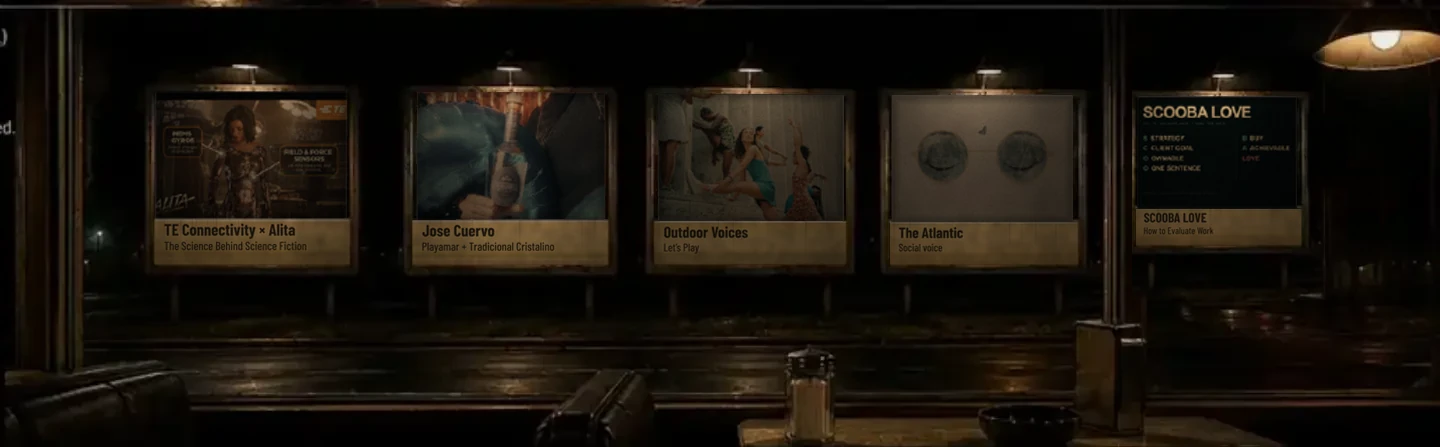
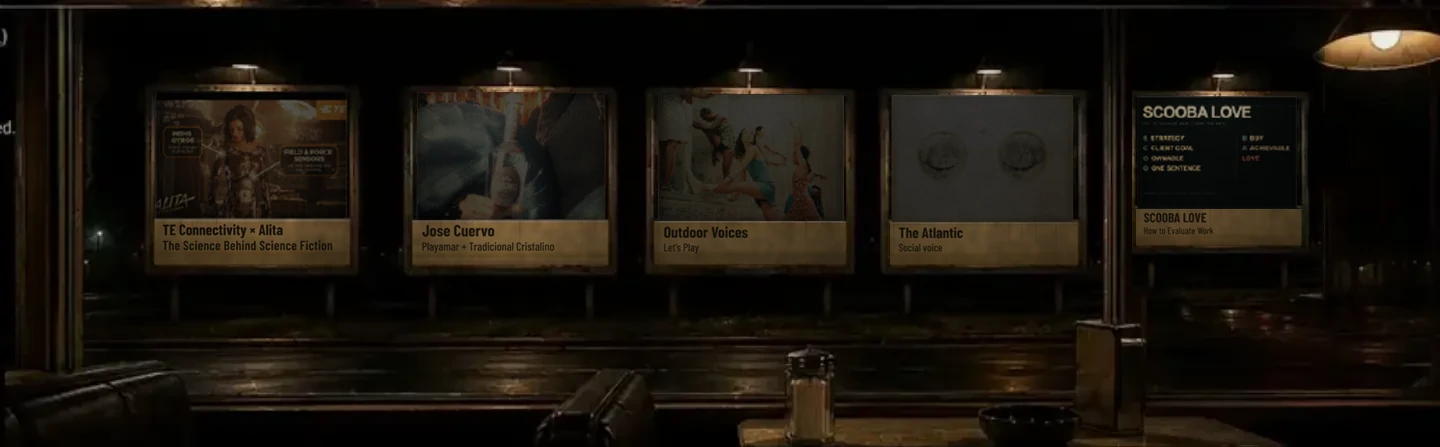
billboards round 3: grade MoneyLion into the night, rebalance Alita strip, atlantic-first swap option
- Printed-ink grade on every face: cyan/blue desaturation, soft-knee highlights under the lamp's
  white level, stronger pull to the plate median. MoneyLion now matches Porsche/Selsun luminance.
- Alita strip: same words; case line larger, 600 weight, opened tracking, denser ink.
- --order atlantic-first: The Atlantic in Work cabinet 04, Selsun Blue in More Work cabinet 09,
  written to *-swap plates with review/billboards/*-swap.html (links follow each case).
  Default build unchanged.

diff --git a/review/billboards/work-swap.html b/review/billboards/work-swap.html
@@ -1,0 +1,7 @@
+<!DOCTYPE html>
+<html lang="en">
+<head>
+<meta charset="utf-8"><meta name="viewport" content="width=device-width,initial-scale=1">
+<title>Ian Luna — WORK</title><meta name="description" content="Selected work by Ian Luna.">
+<link href="/favicon.png" rel="icon"><link href="/work-system.css?v=20260909-lock1" rel="stylesheet"><link href="/tour-runtime.css?v=20260908-physical2" rel="stylesheet"><link href="/tour-cinematic-v2.css?v=20260909-1" rel="stylesheet"><link href="/work-enhance.css?v=20260909-lock1" rel="stylesheet"><script src="/tour-runtime.js?v=20260908-physical2"></script><link as="image" fetchpriority="high" href="/assets/work-panorama-physical-v3-swap.webp" rel="preload"><link href="https://www.ianrluna.com/work/" rel="canonical"><meta content="#080706" name="theme-color"><meta content="website" property="og:type"><meta content="Ian Luna — Work" property="og:title"><meta content="Selected work by creative director and copywriter Ian Luna." property="og:description"><meta content="https://www.ianrluna.com/og_work.png" property="og:image"><meta content="summary_large_image" name="twitter:card"><style>/* review: baked physical billboard plate (scripts/build-all-billboards.py) */.work-scene{background-image:url('/assets/work-panorama-physical-v3-swap.webp?v=20260926-swap1')}/* review fix: live .next-bay is positioned inside the over-wide stage and runs past the viewport; offset it by the stage overflow so it keeps the film-bar's 28px right inset (the stage's transform makes position:fixed useless here) */@media(min-width:761px){.next-bay{right:max(0px,calc((min(106vw,(100svh - var(--bar-h)*2)*1.777777778*1.06) - 100vw)/2 + 28px))}}</style><meta name="robots" content="noindex"></head>
+<body data-tour-surface="work"><a class="skip" href="#projects">Skip to projects</a><div class="filmbar top"><span><span class="hi">IAN LUNA</span> · CREATIVE DIRECTOR</span><span>INT. · DINER · NIGHT</span></div><main id="projects" tabindex="-1"><h1 class="sr-only">WORK — Selected cases</h1><div class="scene-stage work-scene"><div class="scene-wash"></div><a aria-label="Nike SB × Staple: Panda Pigeon" class="billboard b1" data-case-id="nike-sb-panda-pigeon" href="/work/nike-sb-panda-pigeon/"></a><a aria-label="Virgin Galactic: Unity 22" class="billboard b2" data-case-id="virgin-galactic-unity-22" href="/work/virgin-galactic-unity-22/"></a><a aria-label="Porsche × Lucasfilm: The Designer Alliance" class="billboard b3" data-case-id="porsche-lucasfilm-designer-alliance" href="/work/porsche-lucasfilm-designer-alliance/"></a><a aria-label="The Atlantic: Social voice" class="billboard b4" data-case-id="the-atlantic" href="/work/the-atlantic/"></a><a aria-label="MoneyLion × Beast Games: Beast Games Giveaway" class="billboard b5" data-case-id="moneylion-beast-games" href="/work/moneylion-beast-games/"></a><a class="next-bay" href="/work/more/" aria-label="Continue to More Work">NEXT BAY · MORE WORK →</a></div><div aria-hidden="true" class="mobile-title">WORK · Selected cases</div><div class="mobile-list"><a class="mobile-card" data-case-id="nike-sb-panda-pigeon" href="/work/nike-sb-panda-pigeon/"><img alt="" decoding="async" height="985" loading="lazy" src="/assets/cases/nike-hero.webp" width="925"><span class="meta"><b>Nike SB × Staple</b><span>Panda Pigeon</span></span></a><a class="mobile-card" data-case-id="virgin-galactic-unity-22" href="/work/virgin-galactic-unity-22/"><img alt="" decoding="async" height="844" loading="lazy" src="/assets/cases/virgin-hero.webp" width="1600"><span class="meta"><b>Virgin Galactic</b><span>Unity 22</span></span></a><a class="mobile-card" data-case-id="porsche-lucasfilm-designer-alliance" href="/work/porsche-lucasfilm-designer-alliance/"><img alt="" decoding="async" height="900" loading="lazy" src="/assets/cases/porsche-hero.webp" width="1600"><span class="meta"><b>Porsche × Lucasfilm</b><span>The Designer Alliance</span></span></a><a class="mobile-card" data-case-id="the-atlantic" href="/work/the-atlantic/"><img alt="" decoding="async" height="500" loading="lazy" src="/assets/cases/atlantic-hero-poster.webp" width="500"><span class="meta"><b>The Atlantic</b><span>Social voice</span></span></a><a class="mobile-card" data-case-id="moneylion-beast-games" href="/work/moneylion-beast-games/"><img alt="" decoding="async" height="1024" loading="lazy" src="/assets/cases/moneylion-hero.webp" width="1024"><span class="meta"><b>MoneyLion × Beast Games</b><span>Beast Games Giveaway</span></span></a></div></main><div class="filmbar bottom"><nav aria-label="Primary" class="rail"><a href="/">HOME</a><a aria-current="page" href="/work/">WORK</a><a href="/work/more/">MORE WORK</a><a href="/work/all/">INDEX</a><a href="/about/">ABOUT</a><a href="/hearsay/">HEARSAY</a></nav><span>05 CASES</span></div></body></html>

diff --git a/review/billboards/more-work-swap.html b/review/billboards/more-work-swap.html
@@ -1,0 +1,2 @@
+<!DOCTYPE html>
+<html lang="en"><head><meta charset="utf-8"><meta name="viewport" content="width=device-width,initial-scale=1"><title>Ian Luna — MORE WORK</title><meta name="description" content="Selected work by Ian Luna."><link href="/favicon.png" rel="icon"><link href="/work-system.css?v=20260909-lock1" rel="stylesheet"><link href="/tour-runtime.css?v=20260908-physical2" rel="stylesheet"><link href="/tour-cinematic-v2.css?v=20260909-1" rel="stylesheet"><link href="/work-enhance.css?v=20260909-lock1" rel="stylesheet"><script src="/tour-runtime.js?v=20260908-physical2"></script><link as="image" fetchpriority="high" href="/assets/more-work-panorama-physical-v2-swap.webp" rel="preload"><link href="https://www.ianrluna.com/work/more/" rel="canonical"><meta content="#080706" name="theme-color"><meta content="website" property="og:type"><meta content="Ian Luna — More Work" property="og:title"><meta content="Selected work by creative director and copywriter Ian Luna." property="og:description"><meta content="https://www.ianrluna.com/og_work.png" property="og:image"><meta content="summary_large_image" name="twitter:card"><style>/* review: baked physical billboard plate (scripts/build-all-billboards.py) */.more-scene{background-image:url('/assets/more-work-panorama-physical-v2-swap.webp?v=20260926-swap1')}</style><meta name="robots" content="noindex"></head><body data-tour-surface="more"><a class="skip" href="#projects">Skip to projects</a><div class="filmbar top"><span><span class="hi">IAN LUNA</span> · CREATIVE DIRECTOR</span><span>INT. · DINER · NIGHT</span></div><main id="projects" tabindex="-1"><h1 class="sr-only">MORE WORK — Selected cases</h1><div class="scene-stage more-scene"><div class="scene-wash"></div><a aria-label="TE Connectivity × Alita: The Science Behind Science Fiction" class="billboard b1" data-case-id="alita-te-connectivity" href="/work/alita-te-connectivity/"></a><a aria-label="Jose Cuervo: Playamar + Tradicional Cristalino" class="billboard b2" data-case-id="jose-cuervo" href="/work/jose-cuervo/"></a><a aria-label="Outdoor Voices: Let’s Play" class="billboard b3" data-case-id="outdoor-voices" href="/work/outdoor-voices/"></a><a aria-label="Selsun Blue: Dan Driff" class="billboard b4" data-case-id="selsun-blue-dan-driff" href="/work/selsun-blue-dan-driff/"></a><a aria-label="SCOOBA LOVE: internal creative evaluation system" class="billboard b5" data-case-id="scooba-love" href="/work/scooba-love/"></a></div><div aria-hidden="true" class="mobile-title">MORE WORK · Selected cases</div><div class="mobile-list"><a class="mobile-card" data-case-id="alita-te-connectivity" href="/work/alita-te-connectivity/"><img alt="" decoding="async" height="780" loading="lazy" src="/assets/cases/alita-hero.webp" width="532"><span class="meta"><b>TE Connectivity × Alita</b><span>The Science Behind Science Fiction</span></span></a><a class="mobile-card" data-case-id="jose-cuervo" href="/work/jose-cuervo/"><img alt="" decoding="async" height="500" loading="lazy" src="/assets/cases/cuervo-hero-poster.webp" width="399"><span class="meta"><b>Jose Cuervo</b><span>Playamar + Tradicional Cristalino</span></span></a><a class="mobile-card" data-case-id="outdoor-voices" href="/work/outdoor-voices/"><img alt="" decoding="async" height="1069" loading="lazy" src="/assets/cases/outdoor-voices-hero.webp" width="1600"><span class="meta"><b>Outdoor Voices</b><span>Let’s Play</span></span></a><a class="mobile-card" data-case-id="selsun-blue-dan-driff" href="/work/selsun-blue-dan-driff/"><img alt="" decoding="async" height="360" loading="lazy" src="/assets/cases/selsun-hero.webp" width="640"><span class="meta"><b>Selsun Blue</b><span>Dan Driff</span></span></a><a class="mobile-card" data-case-id="scooba-love" href="/work/scooba-love/"><img alt="" decoding="async" loading="lazy" src="/assets/cases/scooba-hero.svg"><span class="meta"><b>SCOOBA LOVE</b><span>How to evaluate work</span></span></a></div></main><div class="filmbar bottom"><nav aria-label="Primary" class="rail"><a href="/">HOME</a><a href="/work/">WORK</a><a aria-current="page" href="/work/more/">MORE WORK</a><a href="/work/all/">INDEX</a><a href="/about/">ABOUT</a><a href="/hearsay/">HEARSAY</a></nav><span>05 CASES</span></div></body></html>

diff --git a/scripts/build-all-billboards.py b/scripts/build-all-billboards.py
@@ -65,6 +65,7 @@ BOARDS = {
             # Chosen face: virgin-work-01 (carrier + spaceship + contrails). The hero's rocket is a ~20px
             # speck at billboard scale; two silhouettes read as aircraft/spacecraft at 1024 and 1440.
             src="assets/cases/virgin-work-01.webp",
+            grade=dict(cyan=0.55),  # daylight-blue sky would otherwise read as a lit screen at night
             crop=(0.47, 0.25, 1.12),
             # Rejected candidate (compare with --virgin-alt): frame 10 of zc_pull virgin-galactic/02.gif,
             # the engine firing. It read as a dark wedge at board scale.
@@ -98,6 +99,8 @@ BOARDS = {
             face=Q(1416, 310.5, 1674.5, 460.5),
             strip=Q(1416.5, 468, 1673.5, 503.5),
             src="assets/cases/moneylion-hero.webp",
+            # Council round: read pasted (too bright, cyan too saturated). Grade into the night.
+            grade=dict(cyan=0.40, knee=0.50, exposure=0.84),
             crop=(0.55, 0.68, 1.0),
             seed=15,
         ),
@@ -106,6 +109,9 @@ BOARDS = {
         dict(
             id="alita",
             client="TE Connectivity × Alita",
+            # Longest identity on either plate: balance the two lines (client a touch smaller, case
+            # line larger, 600 weight, opened tracking, denser ink) so the case line reads like the others.
+            type=dict(cap1=0.225, cap2=0.195, gap=0.12, top=0.13, w2=600, track2=0.02, pad=0.042, ink=0.86),
             title="The Science Behind Science Fiction",
             face=Q(155.5, 91.5, 346.5, 218.5),
             strip=Q(154.5, 218.5, 349, 264.5),
@@ -164,6 +170,7 @@ PLATE = {
         grain=0.010,
         veil=0.55,
         glass=0.9,
+        pull=0.55,
         type=dict(top=0.12, cap1=0.33, gap=0.13, cap2=0.25, pad=0.045),
     ),
     "more": dict(
@@ -171,6 +178,7 @@ PLATE = {
         blur=0.40,
         grain=0.012,
         veil=0.0,
+        pull=0.55,
         glass=0.0,  # above these cabinets is lamp hardware, not open glass: no glass-texture transfer
         type=dict(top=0.12, cap1=0.245, gap=0.13, cap2=0.175, pad=0.05),
     ),
@@ -361,6 +369,15 @@ def build_face(base, b, plate, light, colprof, vis_frac):
     art = ImageEnhance.Color(art).enhance(0.86)
     art = ImageEnhance.Contrast(art).enhance(0.88)
     a = np.asarray(art, np.float32) / 255.0
+    # Printed inks under a warm sodium/tungsten lamp: cyan/blue grounds go dull and greyer, they do
+    # not glow. Hue-selective desaturation (all boards, stronger where a board sets grade.cyan).
+    g = b.get("grade", {})
+    hsv = np.asarray(Image.fromarray(np.uint8(a * 255 + 0.5)).convert("HSV"), np.float32)
+    hue = hsv[..., 0] * (360.0 / 255.0)
+    band = np.clip(1 - np.abs(hue - 195.0) / 50.0, 0, 1)  # cyan-blue centred at 195 deg
+    lum = a.mean(axis=2, keepdims=True)
+    keep = 1 - band[..., None] * (1 - g.get("cyan", 0.70))
+    a = lum + (a - lum) * keep
     a = np.power(a, 1.08)  # print on a lit face, not an emissive screen
 
     yy, xx = np.mgrid[0:h, 0:w]
@@ -372,12 +389,19 @@ def build_face(base, b, plate, light, colprof, vis_frac):
     bezel = 0.70 + 0.30 * np.clip(edge / max(4.0, 0.045 * min(w, h) * 1.6), 0, 1)
     illum = (vert + hot) * hx * bezel  # peak ~1.5 under the lamp, ~0.8 low corners
     out = a * illum[..., None] * light[None, None, :]
+    # Soft-knee highlight compression relative to the lamp's white level: paper can't out-shine
+    # the cream plate under the same lamp.
+    wl = float(light.mean())
+    knee = g.get("knee", 0.62) * wl
+    over = np.clip(out - knee, 0, None)
+    out = np.minimum(out, knee) + over / (1 + over / max(0.35 * wl, 1e-4))
     # Neighbour harmonisation: pull each face part-way toward the plate's shared mean exposure,
     # so a bright-ground campaign (cyan, white paper) does not read as a lit screen next to a dark one.
     _RAW_MEANS.append(float(out.mean()))
     if plate.get("mean_target"):
         m = float(out.mean())
         out *= (plate["mean_target"] / max(m, 1e-4)) ** plate.get("pull", 0.35)
+    out *= g.get("exposure", 1.0)
 
     tex, _ = glass_texture(base, b["face"], w, h)
     veil = sky_rgb(base, b["face"], h) * plate["veil"]
@@ -434,7 +458,7 @@ def build_strip(base, b, plate, light, occ, vis_frac):
         (w * S, h * S), Image.Resampling.BICUBIC
     )
     ink = Image.new("L", big.size, 0)
-    t = plate["type"]
+    t = dict(plate["type"], **{k: v for k, v in b.get("type", {}).items() if k in ("top", "cap1", "gap", "cap2", "pad", "ink")})
     usable = w * vis_frac - 2 * t["pad"] * w
     lines = [("l1", b["client"], t["cap1"]), ("l2", b["title"], t["cap2"])]
     caps = [t["cap1"] * h, t["cap2"] * h]
@@ -459,8 +483,8 @@ def build_strip(base, b, plate, light, occ, vis_frac):
     inkf = np.asarray(ink, np.float32) / 255.0
     bigf = np.asarray(big, np.float32) / 255.0
     printed = (
-        bigf * (1 - 0.80 * inkf[..., None])
-        + np.array([0.06, 0.05, 0.03]) * 0.80 * inkf[..., None] * 0.5
+        bigf * (1 - t.get("ink", 0.80) * inkf[..., None])
+        + np.array([0.06, 0.05, 0.03]) * t.get("ink", 0.80) * inkf[..., None] * 0.5
     )
     lab = Image.fromarray(np.uint8(np.clip(printed, 0, 1) * 255), "RGB").resize(
         (w, h), Image.Resampling.LANCZOS
@@ -628,7 +652,7 @@ def render_type():
     SRC_DIR.mkdir(parents=True, exist_ok=True)
     html = (
         "<html><head><link rel='stylesheet' href='https://fonts.googleapis.com/css2?"
-        "family=Barlow+Condensed:wght@500;700&display=block'></head>"
+        "family=Barlow+Condensed:wght@500;600;700&display=block'></head>"
         "<body style='margin:0;background:#000'><span id=t style='font-family:\"Barlow Condensed\";"
         "color:#fff;font-size:240px;line-height:1.5;white-space:pre;padding:0 40px;display:inline-block'>H</span>"
         "</body></html>"
@@ -638,16 +662,17 @@ def render_type():
         pg = br.new_page(viewport={"width": 6000, "height": 600}, device_scale_factor=1)
         pg.set_content(html)
         pg.wait_for_function("document.fonts.ready.then(()=>true)")
-        for wt in (500, 700):
+        for wt in (500, 600, 700):
             pg.evaluate(f"document.fonts.load('{wt} 240px \"Barlow Condensed\"')")
             ok = pg.evaluate(f"document.fonts.check('{wt} 240px \"Barlow Condensed\"')")
             if not ok:
                 raise SystemExit(f"Barlow Condensed {wt} did not load")
 
-        def shot(text, wt):
+        def shot(text, wt, track=0.0):
             pg.evaluate(
-                "([t,w])=>{const e=document.getElementById('t');e.textContent=t;e.style.fontWeight=w}",
-                [text, wt],
+                "([t,w,k])=>{const e=document.getElementById('t');e.textContent=t;e.style.fontWeight=w;"
+                "e.style.letterSpacing=k+'em'}",
+                [text, wt, track],
             )
             pg.wait_for_timeout(50)
             png = pg.locator("#t").screenshot()
@@ -660,14 +685,15 @@ def render_type():
             rows = np.where(m.any(axis=1))[0]
             return int(rows[0]), int(rows[-1] - rows[0] + 1)
 
-        caps = {wt: cap_metrics(wt) for wt in (500, 700)}
+        caps = {wt: cap_metrics(wt) for wt in (500, 600, 700)}
         for plate in BOARDS.values():
             for b in plate:
-                for kind, text, wt in (
-                    ("l1", b["client"], 700),
-                    ("l2", b["title"], 500),
+                to = b.get("type", {})
+                for kind, text, wt, track in (
+                    ("l1", b["client"], to.get("w1", 700), to.get("track1", 0.0)),
+                    ("l2", b["title"], to.get("w2", 500), to.get("track2", 0.0)),
                 ):
-                    img = shot(text, wt)
+                    img = shot(text, wt, track)
                     a = np.asarray(img)
                     cols = np.where((a > 20).any(axis=0))[0]
                     img = img.crop((max(0, cols[0] - 2), 0, cols[-1] + 3, img.height))
@@ -679,6 +705,7 @@ def render_type():
                                 "text": text,
                                 "font": "Barlow Condensed",
                                 "weight": wt,
+                                "letter_spacing_em": track,
                                 "cap": cap,
                                 "cap_top": cap_top,
                                 "license": "SIL OFL 1.1",
@@ -696,6 +723,23 @@ def render_type():
     print(f"type masks + scooba raster written to {TYPE_DIR} / {SRC_DIR}")
 
 
+# Content travels between cabinets; geometry (face, strip, occluders) stays with the cabinet.
+CONTENT_KEYS = ("id", "client", "title", "src", "crop", "pre", "grade", "type", "alt")
+# Crops re-framed for the other cabinet's aspect when content moves.
+SWAP_CROPS = {"atlantic": (0.50, 0.52, 1.30), "selsun": (0.50, 0.50, 1.0)}
+
+
+def swap_boards(id_a, id_b):
+    a = next(b for pl in BOARDS.values() for b in pl if b["id"] == id_a)
+    b = next(x for pl in BOARDS.values() for x in pl if x["id"] == id_b)
+    ca = {k: a.pop(k) for k in CONTENT_KEYS if k in a}
+    cb = {k: b.pop(k) for k in CONTENT_KEYS if k in b}
+    a.update(cb)
+    b.update(ca)
+    for x in (a, b):
+        x["crop"] = SWAP_CROPS.get(x["id"], x["crop"])
+
+
 def main():
     ap = argparse.ArgumentParser()
     ap.add_argument("--render-type", action="store_true")
@@ -703,6 +747,14 @@ def main():
     ap.add_argument("--only", choices=["work", "more"])
     ap.add_argument("--virgin-alt", action="store_true", help="use board 02's alt face")
     ap.add_argument("--work-out", type=Path, default=WORK_OUT)
+    ap.add_argument("--more-out", type=Path, default=MORE_OUT)
+    ap.add_argument(
+        "--order",
+        choices=["default", "atlantic-first"],
+        default="default",
+        help="atlantic-first: The Atlantic takes Work board 04 (Selsun's cabinet) and Selsun Blue takes "
+        "More Work board 09 (Atlantic's cabinet). Writes the *-swap plates unless --*-out is given.",
+    )
     args = ap.parse_args()
     if args.render_type:
         render_type()
@@ -713,13 +765,19 @@ def main():
         for b in BOARDS["work"]:
             if b.get("alt"):
                 b.update(b["alt"])
+    if args.order == "atlantic-first":
+        swap_boards("selsun", "atlantic")
+        if args.work_out == WORK_OUT:
+            args.work_out = ASSETS / "work-panorama-physical-v3-swap.webp"
+        if args.more_out == MORE_OUT:
+            args.more_out = ASSETS / "more-work-panorama-physical-v2-swap.webp"
     rec = {}
     if args.only in (None, "work"):
         rec["work"] = build_plate("work", WORK_BASE, args.work_out, args.faces)
         print(f"wrote {args.work_out}")
     if args.only in (None, "more"):
-        rec["more"] = build_plate("more", MORE_BASE, MORE_OUT, args.faces)
-        print(f"wrote {MORE_OUT.relative_to(ROOT)}")
+        rec["more"] = build_plate("more", MORE_BASE, args.more_out, args.faces)
+        print(f"wrote {args.more_out}")
     if args.faces:
         (args.faces / "build-record.json").write_text(
             json.dumps(rec, indent=1, ensure_ascii=False)

diff --git a/scripts/render-billboard-review.py b/scripts/render-billboard-review.py
@@ -34,6 +34,7 @@ def main():
         else "http://localhost:8765"
     )
     out.mkdir(parents=True, exist_ok=True)
+    pages = sys.argv[sys.argv.index("--pages") + 1].split(",") if "--pages" in sys.argv else PAGES
     checks = []
     with sync_playwright() as p:
         br = p.chromium.launch()
@@ -45,7 +46,7 @@ def main():
                 has_touch=w < 700,
             )
             pg = ctx.new_page()
-            for name in PAGES:
+            for name in pages:
                 pg.goto(
                     f"{base}/review/billboards/{name}.html?v=bb1",
                     wait_until="networkidle",

diff --git a/docs/design/billboard-geometry-all-v1.md b/docs/design/billboard-geometry-all-v1.md
@@ -70,3 +70,18 @@ Verification: `python scripts/render-billboard-review.py OUT` renders `review/bi
   the lamp hood and printed it as a faint dark pill low on each WORK face (visible on Porsche, Virgin).
 - review/billboards/work.html: NEXT BAY control offset by the stage overflow so it keeps the film
   bar's 28 px right inset at every desktop width (live work.html still clips it; not touched).
+
+## Round 3 (2026-09-26, council fixes)
+
+- All faces: printed-ink grade under the warm lamp. Cyan/blue hues (centred 195°) desaturated to 70%,
+  soft-knee highlight compression at 62% of the lamp's white level, and a stronger (55%) pull toward
+  the plate's median face exposure.
+- MoneyLion (05): `grade` cyan 40%, knee 50%, exposure ×0.84. Face mean 25.3 → 19.8, median 22.7 → 19.3,
+  now level with Porsche (19.9 / 16.0) and Selsun (20.0 / 15.0). Virgin (02) sky: cyan 55%.
+  The Atlantic (09) came down from mean 51.7 to 40.4 against More Work neighbours at 33–35.
+- Alita strip (06): same words, rebalanced typesetting only. Client line cap 22.5% of strip height;
+  case line cap 19.5% (was 17.5%), Barlow Condensed 600 (was 500), +0.02 em tracking, ink 0.86.
+- `--order atlantic-first`: The Atlantic moves into Work cabinet 04 and Selsun Blue into More Work
+  cabinet 09. Geometry stays with the cabinet, content moves with the case. Output goes to
+  `*-physical-v3-swap.webp` / `*-physical-v2-swap.webp`, previewed by `review/billboards/*-swap.html`.
+  The default build is unchanged.
